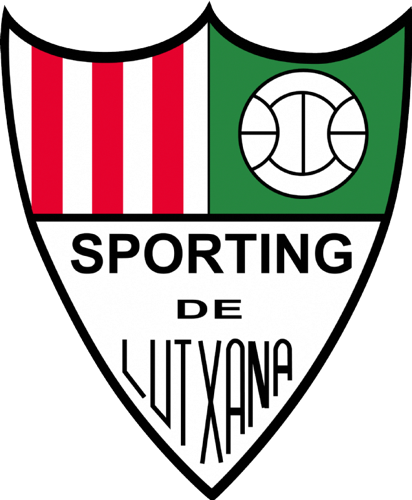
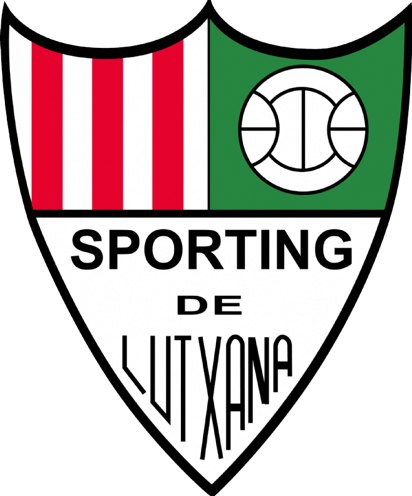
MATCH DAY: escudos con rayas sueltas en el borde ya no salen encogidos
El escudo de La Arboleda de la Federación trae una línea gris de 1 píxel abajo, de lado a lado: el
recorte de márgenes la tomaba como parte del escudo y lo encogía (y se veía la raya). Ahora el
contorno se mide sin detalles finos. Escudos ya guardados recortados de nuevo.

Claude-Session: https://claude.ai/code/session_01HGhHxNaaRD1kMFHjNqCnKz

diff --git a/redes/generar_redes.py b/redes/generar_redes.py
@@ -99,6 +99,22 @@ def sin_fondo_blanco(img):
     return img
 
 
+def recortar_escudo(img):
+    """Quita los márgenes vacíos para que todos los escudos se vean igual de grandes. Las rayas o puntos sueltos
+    del borde (algunos escudos de la Federación traen una línea de 1 píxel) no cuentan como escudo: se mide el
+    contorno sobre una copia sin detalles finos y se recorta la imagen original por ahí."""
+    from PIL import ImageFilter
+    img = img.convert("RGBA")
+    opaco = img.split()[3].point(lambda a: 255 if a > 40 else 0)
+    solido = opaco.filter(ImageFilter.MinFilter(7)).filter(ImageFilter.MaxFilter(7))   # las líneas finas desaparecen
+    caja = solido.getbbox() or opaco.getbbox()
+    if not caja:
+        return img
+    margen = 3
+    caja = (max(caja[0] - margen, 0), max(caja[1] - margen, 0), min(caja[2] + margen, img.width), min(caja[3] + margen, img.height))
+    return img.crop(caja)
+
+
 def escudo_rival(nombre, datos):
     """Escudo en la mejor calidad posible: primero redes/escudos/<nombre>.png (puesto a mano); si no,
     el "grande" de la Federación o el de la web, sin fondo blanco. Se guarda en redes/escudos/ la primera vez."""
@@ -126,7 +142,7 @@ def escudo_rival(nombre, datos):
         except Exception as e:
             print(f"  aviso: no se pudo bajar el escudo grande de {nombre} ({e})", file=sys.stderr)
     img = sin_fondo_blanco(img)
-    img = img.crop(img.getbbox() or (0, 0) + img.size)   # sin márgenes vacíos, para que todos los escudos se vean igual de grandes
+    img = recortar_escudo(img)
     img.thumbnail((500, 500))
     os.makedirs(ESCUDOS_GRANDES, exist_ok=True)
     img.save(listo, optimize=True)
